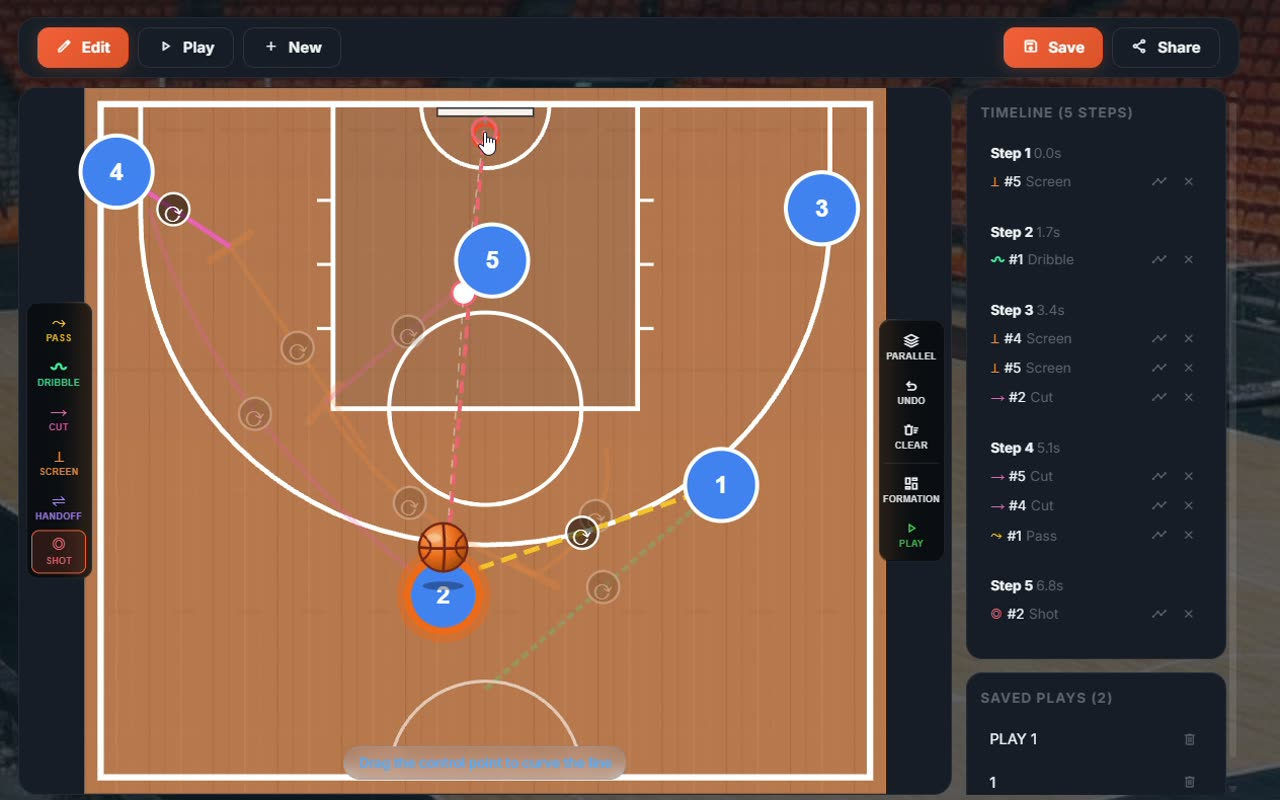
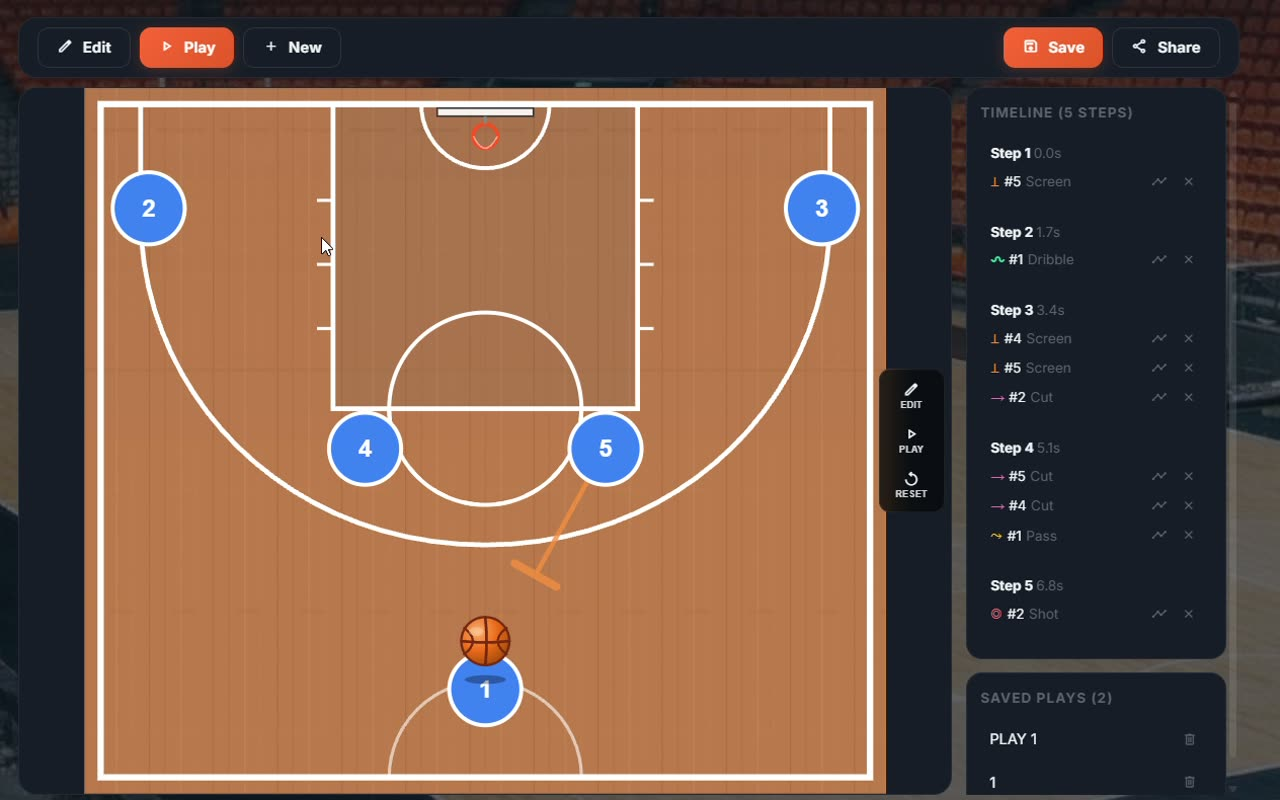
feat(seo/play-creator): real product videos + viewport-aware hero
Hero now shows the actual Play Creator UI in motion instead of a
static screenshot with an SVG arrow overlay. Two recordings — one
landscape (1280x1032 after side-bar crop) and one portrait (720x1280)
— wired to a responsive <video> pair that swaps via CSS so Chrome
serves the right asset (Chrome ignores `media` on <source> inside
<video>).

Container is given an exact aspect-ratio matching the cropped video
so there are no dark bars around the playback area.

Animation section video re-cut to start at 0:56 (was 0:53) and
re-encoded with 1-second keyframe intervals for proper streaming —
the old GOP was too long, leaving the player stuck on the first
frame after the buffer ran out.

Service worker fix: /static/media/* and any *.mp4 / *.webm / *.mov /
*.m4v / *.ogv / *.mp3 / *.m4a / *.ogg / *.wav now pass through to
the network. Range responses (206 Partial Content) can't be stored
in the Cache API; the old cacheFirst path threw a TypeError and
broke <video> streaming. cacheFirst also now refuses to put any non-
basic / non-200 response (defense in depth).

Copy cleanup: removed every competitor mention (FastDraw,
CoachLogic). The "Why Switch" section reframes around positive
NEXTPLAY value instead of head-to-head comparisons.

Mobile hero refinements: stacked full-width CTAs (thumb-sized tap
targets), softer trust-line typography, portrait video container at
9:16. Inline-style guard in JS forces the hidden video tag's
[…]

diff --git a/frontend/templates/play_creator.html b/frontend/templates/play_creator.html
@@ -185,11 +185,14 @@
               No "AI is drawing" framing — this animates the existing
               arrows the way the in-app PLAY button animates them. */
         .pc-hero-demo {
-            margin-top: 36px;
+            margin: 36px auto 0;
             position: relative;
-            max-width: 760px;
-            margin-left: auto;
-            margin-right: auto;
+            max-width: 640px;
+            /* Matches the cropped web video (1280x1032). The video file
+               itself was trimmed so there are no dark side bars; this
+               aspect makes the container fit the visible content edge
+               to edge. */
+            aspect-ratio: 1280 / 1032;
             border-radius: 18px;
             overflow: hidden;
             box-shadow: 0 30px 80px -20px rgba(0, 0, 0, 0.7),
@@ -208,56 +211,54 @@
             height: auto;
         }
 
-        /* SVG overlay — animates motion along the existing arrows.
-           Coordinates are tuned to play_creator_screenshot.png. */
-        .pc-hero-overlay {
-            position: absolute;
-            inset: 0;
+        /* Hero demo videos — two <video> tags, CSS switches visibility
+           based on viewport. Chrome doesn't honor `media` on <source>
+           inside <video>, so this is the canonical approach.
+           Using !important to win over any inherited rule. */
+        .pc-hero-video {
             width: 100%;
             height: 100%;
-            pointer-events: none;
+            object-fit: contain;
+            border-radius: 18px;
         }
-        .pc-overlay-trail {
-            fill: none;
-            stroke: #ff6b35;
-            stroke-width: 2;
-            stroke-linecap: round;
-            stroke-dasharray: 4 6;
-            filter: drop-shadow(0 0 6px rgba(255, 107, 53, 0.7));
-            animation: pcTrailFlow 1.6s linear infinite;
+        .pc-hero-demo .pc-hero-video--desktop { display: block !important; }
+        .pc-hero-demo .pc-hero-video--mobile  { display: none  !important; }
+
+        @media (max-width: 768px) {
+            .pc-hero-demo .pc-hero-video--desktop { display: none  !important; }
+            .pc-hero-demo .pc-hero-video--mobile  { display: block !important; }
+            /* Constrain the portrait mobile video so it doesn't take
+               over the entire viewport height. */
+            .pc-hero-demo {
+                max-width: 280px;
+                aspect-ratio: 9 / 16;
+                margin: 28px auto 0;
+            }
         }
-        .pc-overlay-screen {
-            fill: none;
-            stroke: #ff5fa8;
-            stroke-width: 2;
-            stroke-linecap: round;
-            filter: drop-shadow(0 0 5px rgba(255, 95, 168, 0.6));
-            stroke-dasharray: 120;
-            stroke-dashoffset: 120;
-            animation: pcDrawIn 2.4s 0.6s cubic-bezier(0.4, 0, 0.2, 1) infinite;
-        }
-        @keyframes pcTrailFlow {
-            from { stroke-dashoffset: 20; }
-            to   { stroke-dashoffset: 0; }
-        }
-        @keyframes pcDrawIn {
-            0%   { stroke-dashoffset: 120; opacity: 0; }
-            15%  { opacity: 1; }
-            55%  { stroke-dashoffset: 0; opacity: 1; }
-            85%  { opacity: 1; }
-            100% { stroke-dashoffset: 0; opacity: 0; }
-        }
-        .pc-overlay-ping {
-            fill: rgba(255, 107, 53, 0.95);
-            filter: drop-shadow(0 0 6px rgba(255, 107, 53, 0.8));
-            transform-origin: center;
-            transform-box: fill-box;
-            animation: pcPing 2s ease-in-out infinite;
-        }
-        .pc-overlay-ping.delay-1 { animation-delay: 0.7s; }
-        @keyframes pcPing {
-            0%, 100% { transform: scale(0.9); opacity: 0.7; }
-            50%      { transform: scale(1.4); opacity: 1; }
+
+        /* Mobile hero refinements — stack CTAs full-width for thumb-
+           sized tap targets, lighten the trust line, tighten spacing. */
+        @media (max-width: 600px) {
+            .hero-content {
+                padding-top: 96px;
+            }
+            .hero-ctas {
+                flex-direction: column;
+                width: 100%;
+                max-width: 320px;
+                margin: 0 auto;
+                gap: 12px;
+            }
+            .hero-ctas .btn-large {
+                width: 100%;
+                justify-content: center;
+            }
+            .pc-hero-trust {
+                font-size: 0.78rem;
+                line-height: 1.5;
+                padding: 0 20px;
+                margin-top: 16px;
+            }
         }
 
         /* "Why coaches switched" comparison cards */
@@ -807,17 +808,26 @@
             </div>
             <p class="pc-hero-trust">No credit card &middot; 14-day free trial &middot; Full AI Coaching Staff included</p>
 
-            <!-- Demo: screenshot with subtle motion overlay matching the
-                 in-app PLAY button's animation. -->
+            <!-- Responsive hero demo videos — two <video> tags because
+                 Chrome ignores the `media` attribute on <source> inside
+                 <video>. CSS shows the right one based on viewport.
+                 preload="none" on the hidden video so the browser
+                 doesn't download a file the user will never see. -->
             <div class="pc-hero-demo">
-                <img src="{{ url_for('static', filename='img/play_creator_screenshot.png') }}" alt="NextPlay Play Creator showing a half-court with 5 players, a pass arrow from the point guard to the wing, and a screen action across the paint" width="1200" height="675">
-
-                <svg class="pc-hero-overlay" viewBox="0 0 100 100" preserveAspectRatio="none" aria-hidden="true">
-                    <path class="pc-overlay-trail" d="M 47 86 Q 60 70, 80 50" />
-                    <path class="pc-overlay-screen" d="M 38 55 Q 50 50, 62 56" />
-                    <circle class="pc-overlay-ping" cx="47" cy="86" r="2.2" />
-                    <circle class="pc-overlay-ping delay-1" cx="80" cy="48" r="2.2" />
-                </svg>
+                <video class="pc-hero-video pc-hero-video--desktop"
+                       autoplay muted loop playsinline preload="auto"
+                       poster="{{ url_for('static', filename='media/play_creator_hero_web_poster.jpg') }}"
+                       aria-label="NextPlay Play Creator demo — drawing a basketball play">
+                    <source src="{{ url_for('static', filename='media/play_creator_hero_web.mp4') }}" type="video/mp4">
+                    <source src="{{ url_for('static', filename='media/play_creator_hero_web.webm') }}" type="video/webm">
+                </video>
+                <video class="pc-hero-video pc-hero-video--mobile"
+                       muted loop playsinline preload="none"
+                       poster="{{ url_for('static', filename='media/play_creator_hero_mobile_poster.jpg') }}"
+                       aria-label="NextPlay Play Creator demo — drawing a basketball play on mobile">
+                    <source src="{{ url_for('static', filename='media/play_creator_hero_mobile.mp4') }}" type="video/mp4">
+                    <source src="{{ url_for('static', filename='media/play_creator_hero_mobile.webm') }}" type="video/webm">
+                </video>
             </div>
         </div>
     </section>
@@ -826,26 +836,23 @@
     <section class="section pc-section-bg pc-section-bg--how">
         <div class="container">
             <div class="section-header animate-on-scroll">
-                <span class="section-label">Why Switch</span>
-                <h2>Why Coaches Are Switching From FastDraw &amp; CoachLogic</h2>
-                <p>Three reasons coaches are moving off legacy desktop play-drawing software.</p>
+                <span class="section-label">Why Coaches Choose Us</span>
+                <h2>Built for Coaches Who Want More Than a Whiteboard</h2>
+                <p>Three reasons NEXTPLAY is the modern way to design plays.</p>
             </div>
 
             <div class="pc-compare-grid">
                 <div class="pc-compare-card animate-on-scroll">
                     <h3>Modern &amp; Intuitive</h3>
                     <p>Six action types &mdash; <strong>Pass, Dribble, Cut, Screen, Handoff, Shot</strong> &mdash; with click-and-drag. Formation presets get you started in seconds. Built-in PLAY button animates any set.</p>
-                    <p class="pc-vs">FastDraw &amp; CoachLogic: dense ribbons of menus and tools designed for 2005.</p>
                 </div>
                 <div class="pc-compare-card animate-on-scroll">
                     <h3>Works Anywhere</h3>
-                    <p>Opens on your iPad in the locker room, your Mac at home, your phone on the bus. No software to install, no machine to sync.</p>
-                    <p class="pc-vs">FastDraw: Windows desktop only. Plays trapped on one machine.</p>
+                    <p>Opens on your iPad in the locker room, your Mac at home, your phone on the bus. No software to install, no machine to sync. Your playbook follows you.</p>
                 </div>
                 <div class="pc-compare-card animate-on-scroll">
                     <h3>Part of an AI Coaching Suite</h3>
-                    <p>Your plays don't sit in a folder &mdash; the NextPlay AI specialists reference them in scouting reports, practice plans, and game plans. $19/month for everything.</p>
-                    <p class="pc-vs">FastDraw: $199/year for a stand-alone play drawer.</p>
+                    <p>Your plays don't sit in a folder &mdash; the NextPlay AI specialists reference them in scouting reports, practice plans, and game plans. All 5 specialists + Play Creator for $19/month.</p>
                 </div>
             </div>
         </div>
@@ -1106,7 +1113,7 @@
     <section class="final-cta pc-final pc-section-bg pc-section-bg--final">
         <div class="container animate-on-scroll">
             <h2>Ready to Stop Drawing Plays by Hand?</h2>
-            <p>Join coaches who switched from FastDraw, CoachLogic, and pen-and-paper to a modern, browser-based play designer &mdash; with a full AI Coaching Staff thrown in.</p>
+            <p>Join coaches who upgraded to a modern, browser-based play designer &mdash; with a full AI Coaching Staff thrown in.</p>
             <div class="pc-final-ctas final-cta-btns">
                 <a href="/register?utm_source=play-creator&utm_medium=organic&utm_content=final-cta" class="btn-primary btn-large">Start 14-Day Free Trial</a>
                 <a href="/login" class="btn-ghost btn-large">Sign In</a>
@@ -1249,6 +1256,62 @@
             document.querySelectorAll('video[autoplay]').forEach(function (v) {
                 v.removeAttribute('autoplay');
                 v.pause();
+            });
+        } else {
+            // ── Hero responsive video — only the visible one plays ──
+            // CSS hides one of .pc-hero-video--desktop / --mobile based
+            // on viewport. We start the visible one and pause/clear the
+            // hidden one so the browser doesn't waste bandwidth on a
+            // file the user will never see.
+            function tuneHeroVideos() {
+                var isMobile = window.matchMedia('(max-width: 768px)').matches;
+                var desk = document.querySelector('.pc-hero-video--desktop');
+                var mob  = document.querySelector('.pc-hero-video--mobile');
+                var active = isMobile ? mob : desk;
+                var hidden = isMobile ? desk : mob;
+                console.log('[hero-video] viewport=' + window.innerWidth + ' isMobile=' + isMobile);
+                if (hidden) {
+                    try { hidden.pause(); } catch (e) {}
+                    hidden.style.display = 'none';
+                    hidden.removeAttribute('autoplay');
+                }
+                if (active) {
+                    active.style.display = 'block';
+                    active.muted = true; active.loop = true; active.playsInline = true;
+                    var p = active.play();
+                    if (p && typeof p.then === 'function') {
+                        p.catch(function () {
+                            // Autoplay blocked → start on first interaction.
+                            var unblock = function () {
+                                active.play().catch(function () {});
+                                ['click','touchstart','keydown','scroll'].forEach(function (evt) {
+                                    document.removeEventListener(evt, unblock);
+                                });
+                            };
+                            ['click','touchstart','keydown','scroll'].forEach(function (evt) {
+                                document.addEventListener(evt, unblock, { once: true, passive: true });
+                            });
+                        });
+                    }
+                }
+            }
+            tuneHeroVideos();
+            // Re-evaluate if the user resizes across the breakpoint.
+            window.addEventListener('resize', tuneHeroVideos);
+
+            // ── Also handle other autoplay videos (e.g. .pc-feature-video) ──
+            document.querySelectorAll('video[autoplay]').forEach(function (v) {
+                if (v.classList.contains('pc-hero-video')) return;
+                var p = v.play();
+                if (p && typeof p.then === 'function') {
+                    p.catch(function () {
+                        var unblock = function () {
+                            v.play().catch(function () {});
+                            document.removeEventListener('click', unblock);
+                        };
+                        document.addEventListener('click', unblock, { once: true, passive: true });
+                    });
+                }
             });
         }
 

diff --git a/frontend/static/sw.js b/frontend/static/sw.js
@@ -94,6 +94,18 @@ self.addEventListener('fetch', function (event) {
     return; // pass through to network
   }
 
+  // Media files (videos, audio) — pass through to the network. Browsers
+  // request these with HTTP Range headers and receive 206 Partial Content
+  // responses, which the Cache API's put() cannot store (throws TypeError).
+  // Letting the network handle them directly preserves <video> seeking +
+  // streaming and avoids breaking the page with cache errors.
+  if (
+    url.pathname.startsWith('/static/media/') ||
+    /\.(mp4|webm|mov|m4v|ogv|mp3|m4a|ogg|wav)$/i.test(url.pathname)
+  ) {
+    return; // pass through to network
+  }
+
   // Static assets: cache-first. They're cache-busted via ?v= so a new deploy
   // mints new URLs and the old entries become unreachable + auto-evicted.
   if (url.pathname.startsWith('/static/')) {
@@ -116,18 +128,24 @@ async function cacheFirst(req, cacheName) {
     // Refresh in background — eventual consistency is fine for static assets.
     fetch(req)
       .then(function (resp) {
-        if (resp && resp.ok) cache.put(req, resp.clone());
+        if (isCacheable(resp)) cache.put(req, resp.clone()).catch(function () {});
       })
       .catch(function () {});
     return cached;
   }
   try {
     const resp = await fetch(req);
-    if (resp && resp.ok) cache.put(req, resp.clone());
+    if (isCacheable(resp)) cache.put(req, resp.clone()).catch(function () {});
     return resp;
   } catch (e) {
     return new Response('', { status: 504, statusText: 'offline' });
   }
+}
+
+// Only cache full successful responses. 206 Partial Content (Range requests
+// for media) and opaque/error responses throw on Cache.put().
+function isCacheable(resp) {
+  return resp && resp.ok && resp.status === 200 && resp.type === 'basic';
 }
 
 async function networkFirstPage(req) {